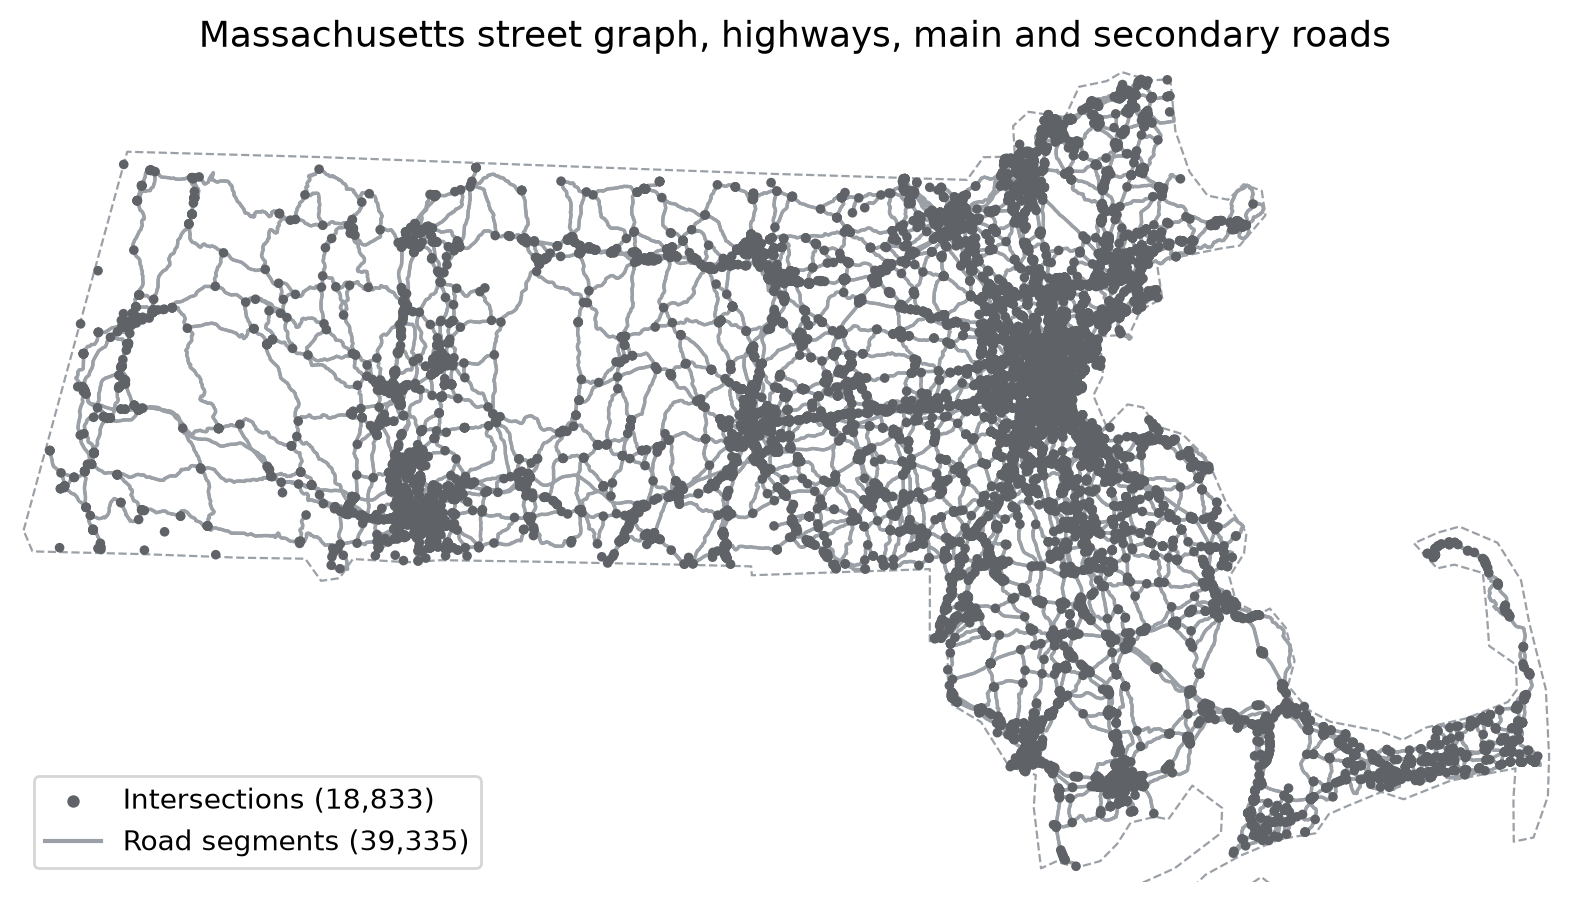
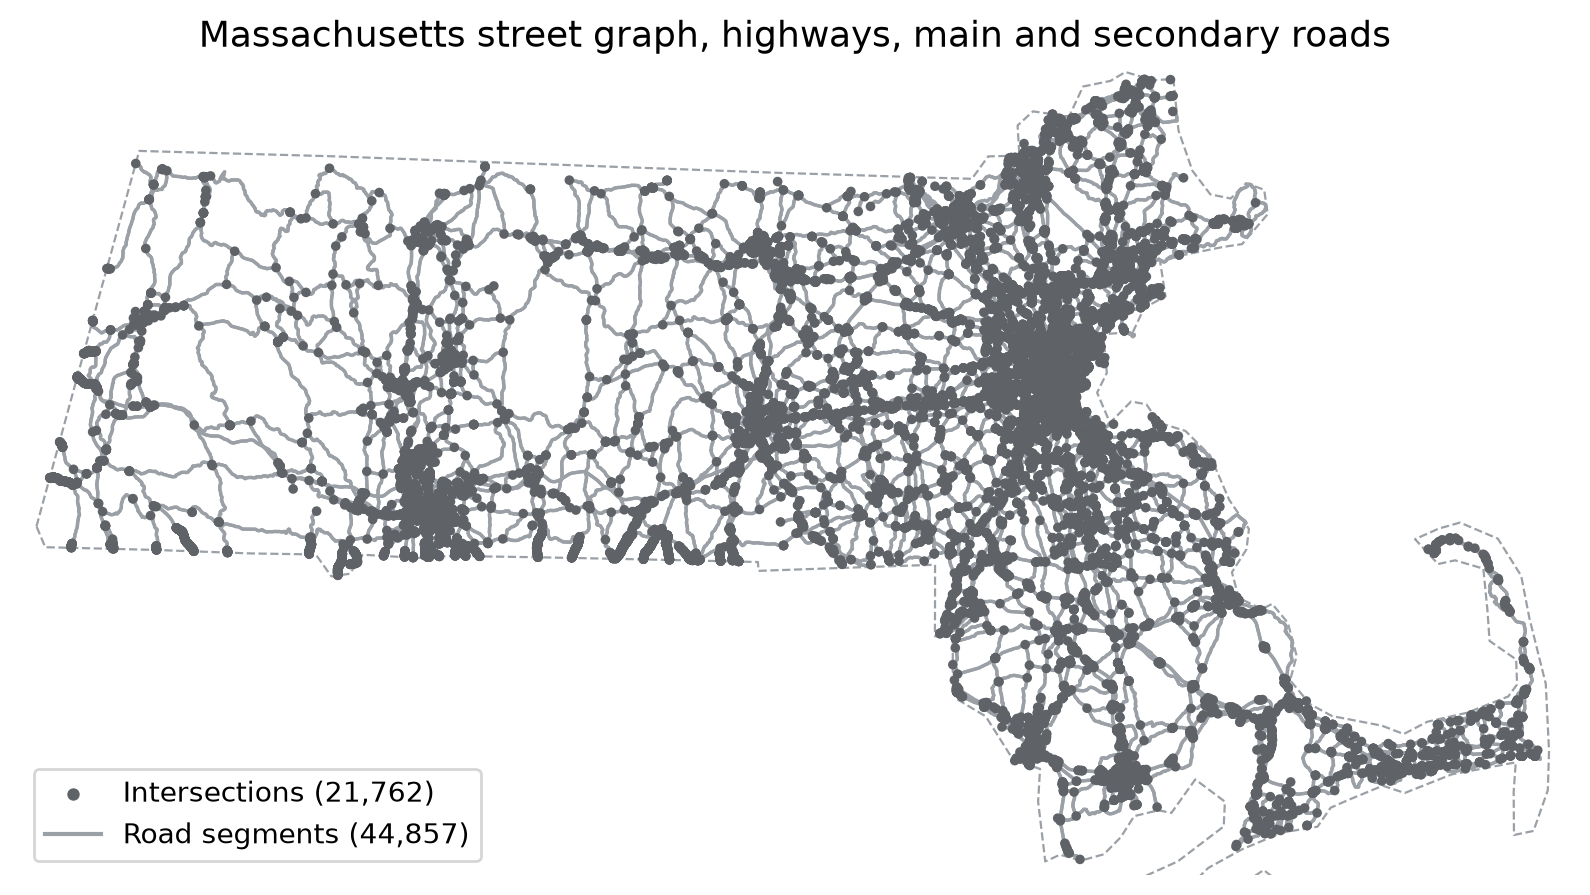
updated graphs with the second test case

diff --git a/check_graphs.py b/check_graphs.py
@@ -13,10 +13,11 @@ import random
 import networkx as nx
 import numpy as np
 import osmnx as ox
+from scipy.sparse.csgraph import dijkstra
 
 import data
 import search
-from charger_graph import MAX_LEG_MILES, charger_stations, load_charger_graph
+from charger_graph import MAX_LEG_MILES, charger_stations, load_charger_graph, street_matrix
 from trip import plan_trip
 
 failures = []
@@ -70,6 +71,19 @@ def main():
           f"{stations['stations'].sum():,} of {len(all_chargers):,} chargers kept at "
           f"{len(stations):,} intersections, median {stations['snap_miles'].median():.2f} mi away")
 
+    # A road that is missing in one direction (like a state-line crossing that
+    # didn't join up) makes many drives far longer one way than the other.
+    # A few big differences are normal: a rest stop or frontage road that only
+    # goes one way can mean driving to the next exit and back.
+    matrix, _, index = street_matrix(G)
+    rows = np.array([index[n] for n in stations["node"]])
+    sources = random.sample(list(rows), min(60, len(rows)))
+    there = dijkstra(matrix, directed=True, indices=sources)[:, rows]
+    back = dijkstra(matrix.T.tocsr(), directed=True, indices=sources)[:, rows]
+    share = (np.abs(there - back) > 50).mean()
+    check("no road is missing in one direction: under 1 in 200 charger pairs differ by over 50 miles "
+          "between A -> B and B -> A", share < 0.005, f"{share:.3%} of {there.size:,} pairs")
+
     print("\nCharger graph")
     C = load_charger_graph(args.region, MAX_LEG_MILES, road_types)
     print(f"      {C.number_of_nodes():,} charger locations, {C.number_of_edges():,} legs")
@@ -109,13 +123,12 @@ def main():
         check(f"{range_miles} mi range: total miles = roads driven + detours",
               abs(road_total + detours - trip["total_miles"]) < 1e-2)
         T = trip["trip_graph"]
-        for weight in ("cost", "miles"):
-            length = lambda path: sum(T[a][b][weight] for a, b in zip(path, path[1:]))
-            expected = length(nx.dijkstra_path(T, "START", "END", weight=weight))
-            ours = {name: length(search.ALGORITHMS[name](T, "START", "END", weight))
-                    for name in ("dijkstra", "astar")}
-            check(f"{range_miles} mi range: our Dijkstra and A* match NetworkX on {weight}",
-                  all(abs(v - expected) < 1e-6 for v in ours.values()))
+        length = lambda path: sum(T[a][b]["miles"] for a, b in zip(path, path[1:]))
+        expected = length(nx.dijkstra_path(T, "START", "END", weight="miles"))
+        ours = {name: length(search.ALGORITHMS[name](T, "START", "END", "miles"))
+                for name in ("dijkstra", "astar")}
+        check(f"{range_miles} mi range: our Dijkstra and A* match NetworkX",
+              all(abs(v - expected) < 1e-6 for v in ours.values()))
 
     print(f"\n{'All checks passed' if not failures else f'{len(failures)} checks failed'}")
 

diff --git a/trip.py b/trip.py
@@ -3,9 +3,8 @@
 1. Look up the start and end places and match each to its nearest intersection.
 2. Add START and END to a copy of the charger graph, connected to every charger
    the car can reach on one charge.
-3. Find the shortest path from START to END in that graph. The vertices along it
-   are the charging stops. Edges are weighted by `cost` (miles plus a large amount
-   per leg), so the route with the fewest stops wins, then the shortest one.
+3. Find the shortest path in miles from START to END in that graph. The vertices
+   along it are the charging stops.
 4. Turn each leg back into the actual roads with a shortest path on the street graph.
 
 `find_path` is the algorithm used in step 3. It defaults to our own Dijkstra
@@ -37,12 +36,6 @@ from charger_graph import load_charger_graph, street_matrix
 FIGURE_DIR = Path(__file__).parent / "figures"
 GEOCODE_CACHE = data.DATA_DIR / "geocode.json"
 BUFFER = 0.8  # only plan legs that use at most 80 percent of the car's range
-# When choosing a route, every leg also costs this many miles. It is larger than
-# any trip, so the route with the fewest charging stops always wins, and among
-# routes with that many stops the shortest one wins. Reported miles never include it.
-# Dallas to Boston at 250 miles: 9 stops and 1,774.0 miles, instead of 11 stops
-# and 1,773.1 miles when only miles count.
-STOP_COST_MILES = 10_000
 
 
 def geocode(place):
@@ -87,7 +80,7 @@ def plan_trip(start, end, range_miles=250, region="dallas-boston",
     to_end = dijkstra(matrix.T.tocsr(), indices=index[ends["END"]["node"]], limit=usable)
 
     T = C.copy()
-    T.graph.update(usable_miles=usable, stop_cost_miles=STOP_COST_MILES)  # for A*'s guess
+    T.graph.update(usable_miles=usable)  # for A*'s guess
     for label, info in ends.items():
         T.add_node(label, name=info["place"], lat=info["lat"], lon=info["lon"],
                    snap_miles=info["snap_miles"])
@@ -102,10 +95,8 @@ def plan_trip(start, end, range_miles=250, region="dallas-boston",
     if s_snap + direct + e_snap <= usable:
         T.add_edge("START", "END", miles=s_snap + direct + e_snap, road_miles=direct)
 
-    for _, _, d in T.edges(data=True):
-        d["cost"] = d["miles"] + STOP_COST_MILES
     try:
-        stops = find_path(T, "START", "END", weight="cost")
+        stops = find_path(T, "START", "END", weight="miles")
     except nx.NetworkXNoPath:
         raise SystemExit(f"No route: a car with {range_miles} miles of range can't make this trip "
                          f"with legs under {usable:.0f} miles.")

diff --git a/data.py b/data.py
@@ -6,6 +6,7 @@ import time
 from pathlib import Path
 
 import networkx as nx
+import numpy as np
 import osmium
 import osmnx as ox
 import pandas as pd
@@ -166,11 +167,18 @@ def load_street_graph(region, road_types=MAJOR_ROADS):
 
     if region in ROUTES:
         # OpenStreetMap ids are shared across state files, so roads that cross
-        # a state line join up when the state graphs are combined.
+        # a state line join up when the state graphs are combined. A road that
+        # crosses a state line is in both files, and its points have to stay
+        # vertices in both state graphs. Otherwise each state simplifies the road
+        # differently, the two halves share no vertex, and the crossing is lost
+        # (this broke eastbound I-40 over the Mississippi at Memphis).
+        osm_paths = [_state_roads_file(state, road_types) for state in ROUTES[region]]
+        shared = _shared_node_ids(osm_paths)
         graphs = []
-        for state in ROUTES[region]:
-            osm_path = _state_roads_file(state, road_types)
-            graphs.append(ox.graph_from_xml(osm_path, simplify=True, retain_all=True))
+        for osm_path in osm_paths:
+            g = ox.graph_from_xml(osm_path, simplify=False, retain_all=True)
+            nx.set_node_attributes(g, {n: True for n in g if n in shared}, "border")
+            graphs.append(ox.simplify_graph(g, node_attrs_include=["border"]))
         print("Joining states")
         G = nx.compose_all(graphs)
     else:
@@ -185,6 +193,15 @@ def load_street_graph(region, road_types=MAJOR_ROADS):
     with open(graph_path, "wb") as f:
         pickle.dump(G, f, protocol=pickle.HIGHEST_PROTOCOL)
     return G
+
+
+def _shared_node_ids(osm_paths):
+    """Ids of the points that appear in more than one state file (roads crossing a state line)."""
+    ids = []
+    for path in osm_paths:
+        ids.append(np.fromiter((n.id for n in osmium.FileProcessor(str(path), osmium.osm.NODE)), dtype=np.int64))
+    values, counts = np.unique(np.concatenate(ids), return_counts=True)
+    return set(values[counts > 1].tolist())
 
 
 def clean_graph(G):

diff --git a/compare_algorithms.py b/compare_algorithms.py
@@ -1,7 +1,6 @@
 """Compare our Dijkstra, our A* and NetworkX's Dijkstra on the full trip graph.
 
-For each range and each goal (fewest stops = trip.py's `cost`, or fewest miles),
-every algorithm searches the same graph. The script checks that they agree on the
+For each range, every algorithm searches the same graph for the fewest miles. The script checks that they agree on the
 best weight and reports how many vertices each one expanded and how long it took.
 
 Usage:
@@ -17,7 +16,7 @@ import networkx as nx
 import search
 import trip
 
-GOALS = {"cost": "fewest stops", "miles": "fewest miles"}
+GOALS = {"miles": "fewest miles"}
 
 
 def fastest(func, repeat):

diff --git a/README.md b/README.md
@@ -20,7 +20,7 @@ python3 -m venv .venv
 .venv/bin/python trip.py "Dallas, TX" "Boston, MA" --range 150
 .venv/bin/python trip.py "Dallas, TX" "Boston, MA" --algorithm astar   # same route, found with our A*
 .venv/bin/python compare_algorithms.py "Dallas, TX" "Boston, MA"       # our Dijkstra vs our A* vs NetworkX
-.venv/bin/python shortest_trip.py "Dallas, TX" "Boston, MA"            # fewest miles instead of fewest stops
+.venv/bin/python shortest_trip.py "Dallas, TX" "Boston, MA"            # same shortest route, drawn on a map
 .venv/bin/python check_graphs.py                            # check every part of the graphs (should print "All checks passed")
 ```
 
@@ -75,12 +75,8 @@ The road miles between chargers are computed once with SciPy's published Dijkstr
 **Trip** (`trip.plan_trip`). Combines both graphs:
 1. Looks up the start and end with OpenStreetMap's place search and matches each to its nearest intersection.
 2. Adds START and END to a copy of the charger graph, connected to every charger the car can reach.
-3. Finds the best path from START to END. The vertices on it are the charging stops.
-   The best path has the fewest charging stops, and among those the fewest miles.
-   To do that, each leg is searched by `cost` = miles + 10,000. The miles we report
-   never include the extra 10,000. Dallas to Boston with a 250 mile range takes
-   9 stops and 1,774.0 miles this way, compared with 11 stops and 1,773.1 miles
-   when only miles count.
+3. Finds the shortest path in miles from START to END. The vertices on it are the
+   charging stops.
 4. Turns each leg back into the actual roads on the street graph and draws the map in `figures/`.
 
 ## Our Dijkstra and A*
@@ -98,20 +94,17 @@ trip.plan_trip("Dallas, TX", "Boston, MA", range_miles=250, find_path=search.ast
 ```
 
 **A\*'s guess.** Every vertex has coordinates, and no road is shorter than the
-straight line between its ends, so the straight-line miles to the target never
-overestimates. On the trip graph, where every leg also costs 10,000, the guess adds
-10,000 for each leg that must still be driven: ceil(straight-line miles / longest leg).
-Both guesses are consistent, so A\* finds the same best route as Dijkstra.
+straight line between its ends. So the straight-line miles to the target never
+overestimates, and A\* finds the same shortest route as Dijkstra.
 
-**Results** (`compare_algorithms.py`, Dallas to Boston, 4,967 vertices). All three
-algorithms find routes of the same weight; A\* expands about half as many vertices.
+**Results** (`compare_algorithms.py`, Dallas to Boston, 4,973 vertices). All three
+algorithms find the same shortest route; A\* expands about a third fewer vertices.
 
-| Range | Goal | Miles | Stops | Our Dijkstra | Our A\* | NetworkX Dijkstra |
-|---|---|---|---|---|---|---|
-| 150 | fewest stops | 1,782.4 | 16 | 4,810 vertices, 275 ms | 2,609 vertices, 167 ms | 224 ms |
-| 250 | fewest stops | 1,774.0 | 9 | 4,811 vertices, 512 ms | 2,250 vertices, 260 ms | 424 ms |
-| 250 | fewest miles | 1,773.1 | 11 | 4,811 vertices, 513 ms | 2,653 vertices, 329 ms | 435 ms |
-| 300 | fewest stops | 1,773.0 | 7 | 4,811 vertices, 652 ms | 1,930 vertices, 291 ms | 547 ms |
+| Range | Miles | Stops | Our Dijkstra | Our A\* | NetworkX Dijkstra |
+|---|---|---|---|---|---|
+| 150 | 1,739.9 | 18 | 4,816 vertices, 680 ms | 3,229 vertices, 614 ms | 996 ms |
+| 250 | 1,737.8 | 10 | 4,817 vertices, 823 ms | 3,246 vertices, 597 ms | 599 ms |
+| 300 | 1,737.6 | 8 | 4,817 vertices, 991 ms | 3,246 vertices, 768 ms | 774 ms |
 
 Times are the fastest of 3 runs on an Apple laptop, after the graph is loaded.
 `check_graphs.py` checks that our Dijkstra and A\* match NetworkX on every test trip.

diff --git a/RESOURCES.md b/RESOURCES.md
@@ -1,0 +1,21 @@
+# Resources
+
+## Data
+- Road network from OpenStreetMap contributors (openstreetmap.org), downloaded as state files from Geofabrik (download.geofabrik.de). Map data © OpenStreetMap contributors, ODbL.
+- EV charging stations from the U.S. Department of Energy Alternative Fuels Data Center, Alternative Fuel Stations API (afdc.energy.gov, developer.nlr.gov). Public DC fast chargers that are open.
+- State outlines from the U.S. Census Bureau cartographic boundary files (2023, 1:20,000,000).
+- Background map tiles and road drawing on some route figures from OpenStreetMap and OSRM (project-osrm.org).
+
+## Algorithms
+- E. W. Dijkstra, "A note on two problems in connexion with graphs," Numerische Mathematik 1 (1959), 269–271.
+- P. E. Hart, N. J. Nilsson and B. Raphael, "A Formal Basis for the Heuristic Determination of Minimum Cost Paths," IEEE Transactions on Systems Science and Cybernetics 4(2) (1968), 100–107.
+
+## Software
+- OSMnx by Geoff Boeing, for turning OpenStreetMap data into graphs (osmnx.readthedocs.io).
+- pyosmium, for filtering the OpenStreetMap files (osmcode.org/pyosmium).
+- NetworkX, for graph storage and the published Dijkstra and A* we compared against (networkx.org).
+- SciPy `scipy.sparse.csgraph.dijkstra`, the published C implementation (scipy.org).
+- Matplotlib and GeoPandas, for the figures.
+
+## AI use
+- Claude (Anthropic) helped write the data pipeline and graph-building code (data.py, charger_graph.py, trip.py, check_graphs.py, visualize.py) and explain the results. We checked its output with check_graphs.py and against NetworkX.
